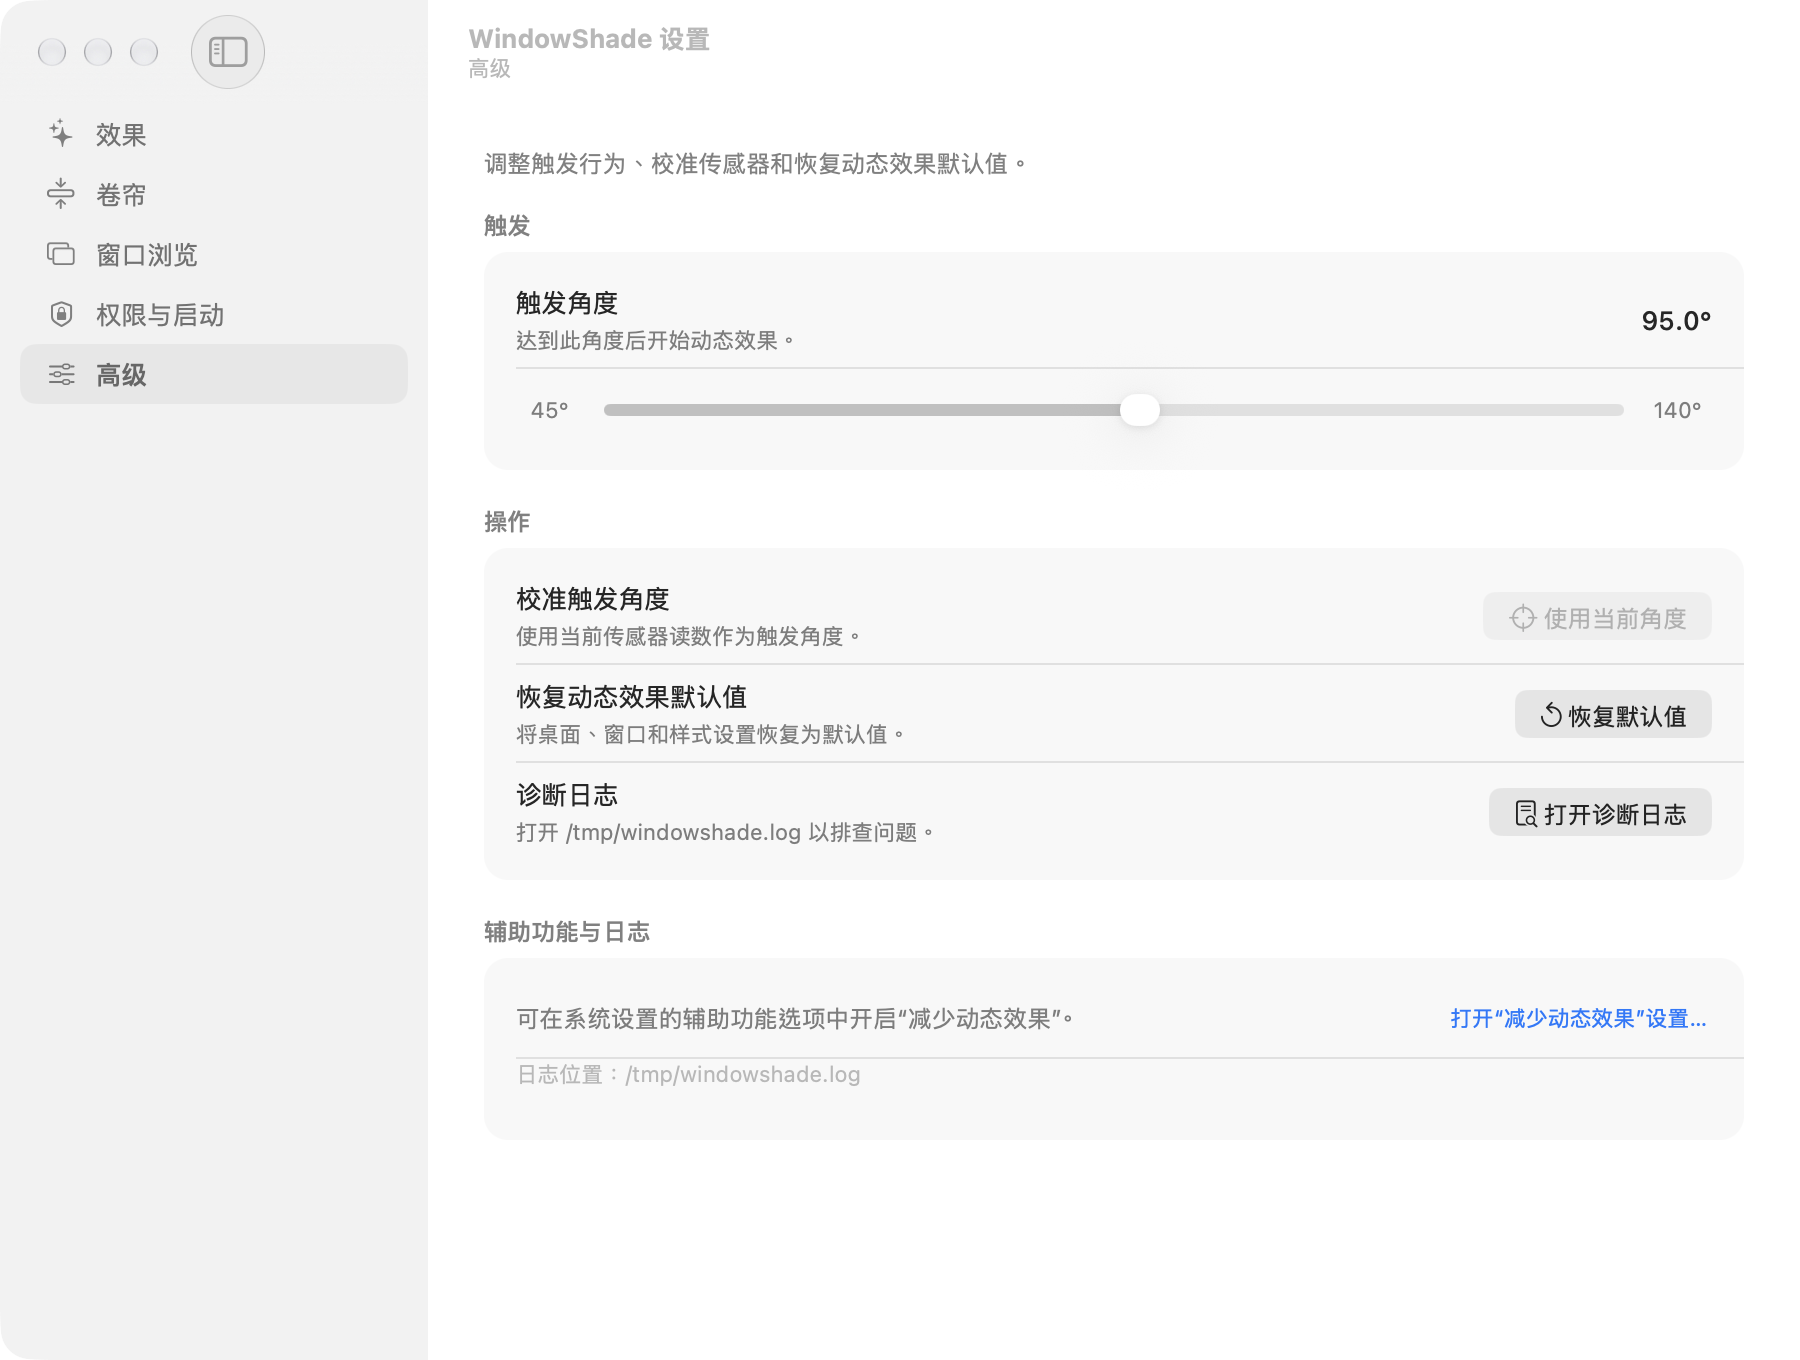
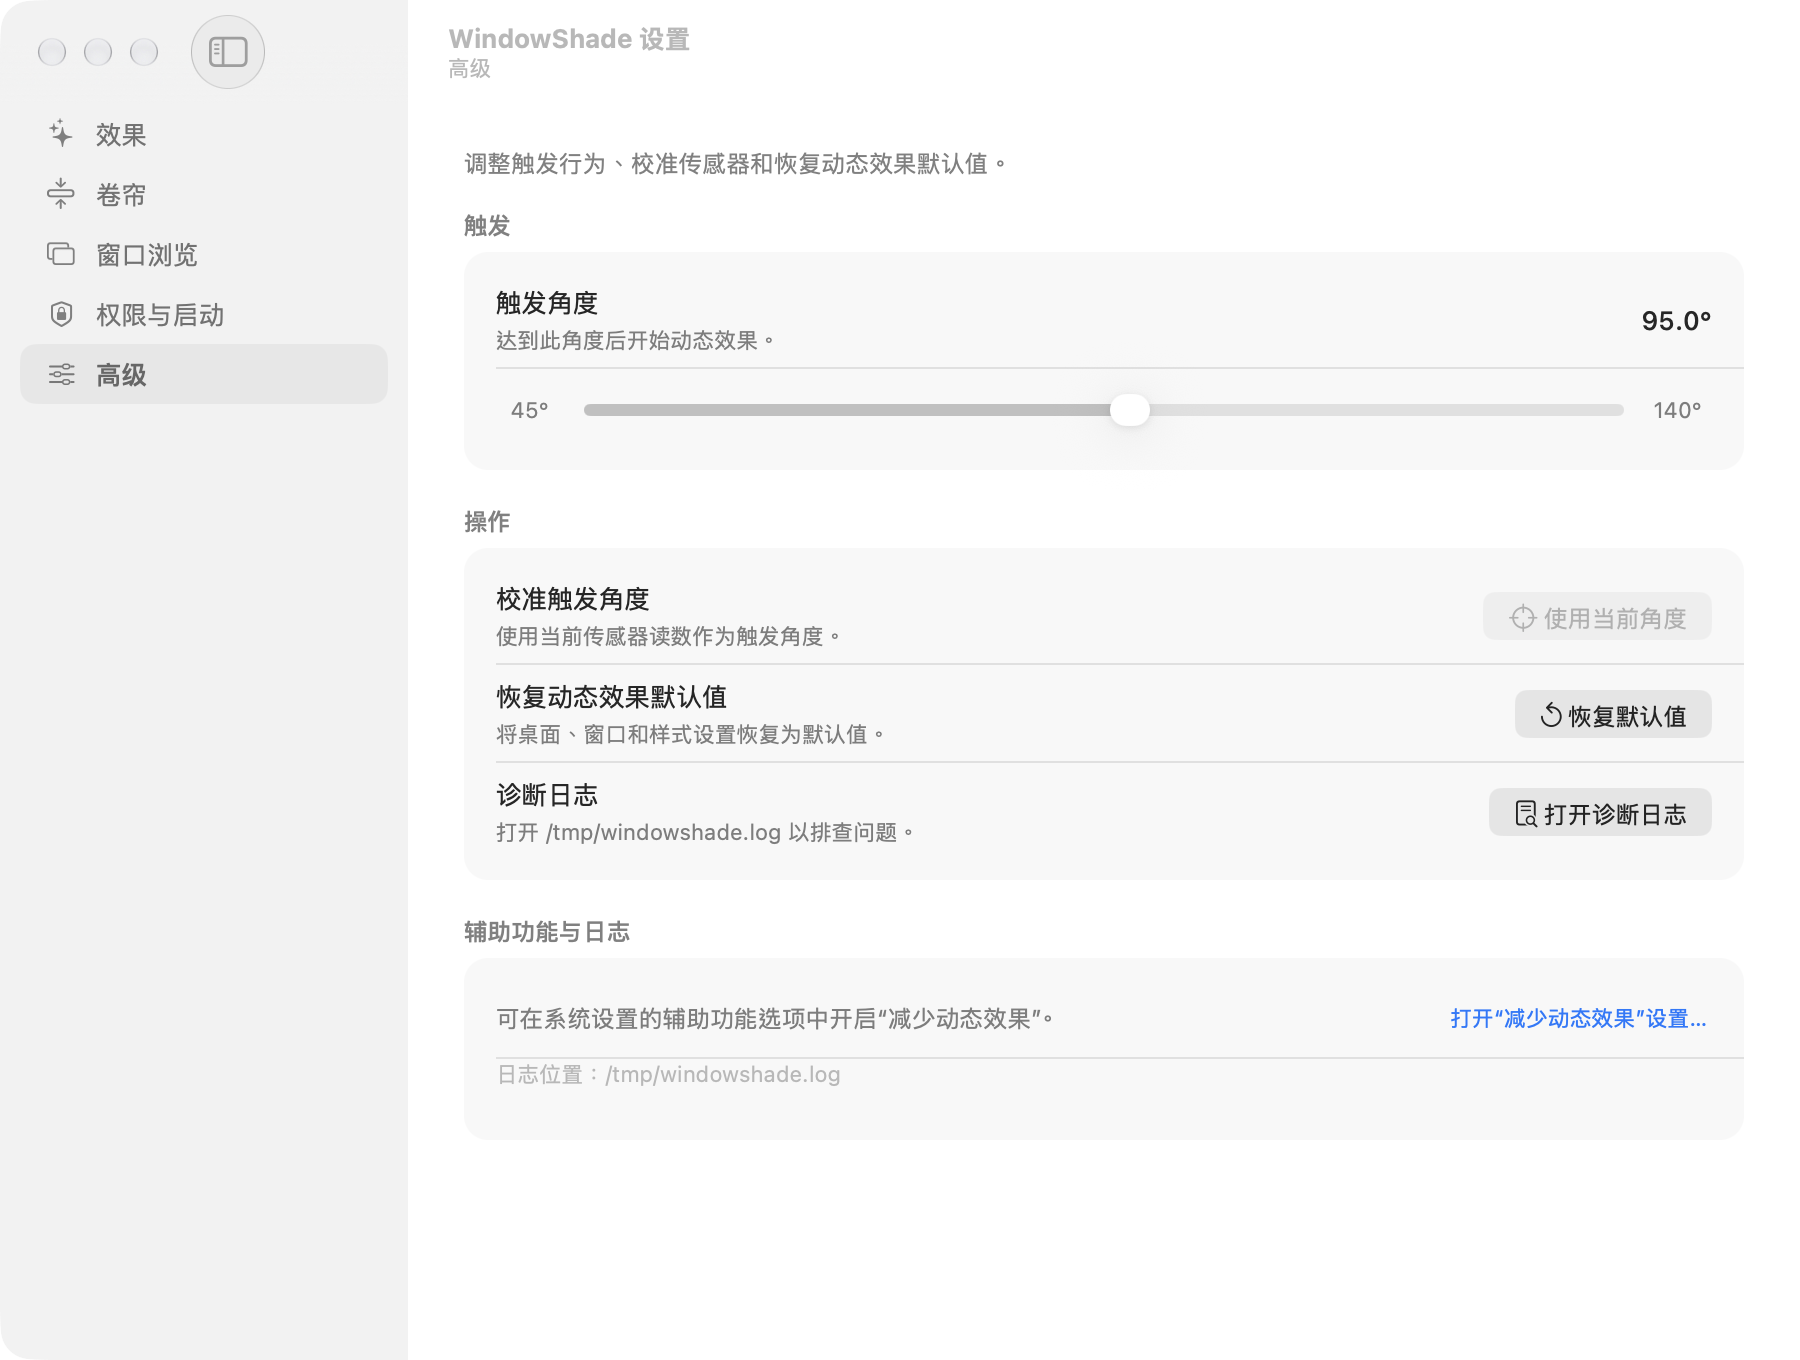
Centre the settings content column, so hiding the sidebar stops leaving half a window blank
The user reported a large blank area "when switching the sidebar" and the two
screenshots turned out to be the same window in both sidebar states: left
region is the sidebar (237 background, 215 selection) in one, and the content
cards (248) in the other. With the sidebar hidden the detail pane becomes the
whole ~1115 pt window, but the 640 pt content column stayed pinned to its
leading edge — measured 447 pt of blank space down the right side (187 pt with
the sidebar shown).

Apple's own grouped form (SwiftUI .formStyle(.grouped), rendered on this
machine) caps its column at 703.5 pt and centres it: 75 pt a side in an 854 pt
container, 248 pt a side in a 1200 pt one. So select(section:) now pins
centreX to the page host, keeps >=28 pt on both sides and still caps the width
at 640 (the == 640 constraint drops to priority 510 so a narrow window shrinks
the column instead of breaking the margins).

Measured on the production window shots: 900 x 680 goes from 28/20 pt to
28.0/28.5 pt, 1115 x 680 from 28/187 to 130.5/131.0, and a hidden sidebar
centres the same column in the full-width pane.

Guarded so it cannot regress silently: contentColumnOffsetForDiagnostics
reports the current page's offset from the pane centre and --settings-shots
prints it on every render (0.0 pt PASS at both widths, all five pages), and
WINDOWSHADE_SETTINGS_SHOTS_SIZE renders the batch at another window size,
because a 900 pt window never showed the defect.
[…]

diff --git a/prototype/Effects/SettingsShotProbe.swift b/prototype/Effects/SettingsShotProbe.swift
@@ -21,12 +21,14 @@ final class SettingsShotProbe {
     func run(completion: @escaping () -> Void) {
         try? FileManager.default.createDirectory(at: outputDirectory,
                                                 withIntermediateDirectories: true)
+        let shotSize = Self.requestedShotSize()
         let appearances: [(String, NSAppearance.Name)] = [("light", .aqua), ("dark", .darkAqua)]
         var manifest = """
         设置窗口页面截图（生产设置窗口整窗截图，含系统侧栏材质；拿不到整窗结果时才退回
         cacheDisplay 离屏渲染，那种情况下侧栏区域是透明的）
         macOS: \(ProcessInfo.processInfo.operatingSystemVersionString)
         scale: \(Int(NSScreen.main?.backingScaleFactor ?? 1))x
+        截图尺寸: \(Int(shotSize.width))x\(Int(shotSize.height))
 
         """
         for (appearanceName, appearance) in appearances {
@@ -35,10 +37,15 @@ final class SettingsShotProbe {
                 owner.showDuoSettings(section: section)
                 RunLoop.current.run(until: Date().addingTimeInterval(0.45))
                 guard let window = owner.duoController.settingsWindow?.window else { continue }
-                window.setContentSize(NSSize(width: 900, height: 680))
+                window.setContentSize(shotSize)
                 window.setFrameOrigin(NSPoint(x: window.frame.origin.x,
                                               y: window.frame.origin.y))
                 RunLoop.current.run(until: Date().addingTimeInterval(0.25))
+                if appearanceName == "light", let offset = owner.duoController.settingsWindow?
+                    .contentColumnOffsetForDiagnostics {
+                    let verdict = abs(offset) < 0.5 ? "PASS" : "FAIL"
+                    print("settings-shots: 内容列居中偏移 \(String(format: "%.1f", offset))pt \(verdict)")
+                }
                 let theme = window.contentView?.superview ?? window.contentView
                 guard let theme,
                       let image = capture(window: window) ?? render(view: theme) else { continue }
@@ -55,6 +62,21 @@ final class SettingsShotProbe {
                             atomically: true, encoding: .utf8)
         owner.duoController.settingsWindow?.close()
         completion()
+    }
+
+    /// 截图尺寸默认 900 × 680（窗口默认尺寸）。设置 `WINDOWSHADE_SETTINGS_SHOTS_SIZE=1115x680`
+    /// 可以把同一批页面渲染成别的窗口尺寸——窗口可自由缩放，内容列的左右留白是否对称、
+    /// 收起侧栏后的宽详情区是否还留大片空白，都要在非默认宽度上看过才算数。
+    private static func requestedShotSize() -> NSSize {
+        let fallback = NSSize(width: 900, height: 680)
+        guard let raw = ProcessInfo.processInfo.environment["WINDOWSHADE_SETTINGS_SHOTS_SIZE"] else {
+            return fallback
+        }
+        let parts = raw.lowercased().split(separator: "x")
+        guard parts.count == 2,
+              let width = Double(parts[0]), let height = Double(parts[1]),
+              width >= 640, height >= 400 else { return fallback }
+        return NSSize(width: width, height: height)
     }
 
     private func render(view: NSView) -> CGImage? {

diff --git a/prototype/Effects/DuoSettingsWindow.swift b/prototype/Effects/DuoSettingsWindow.swift
@@ -326,10 +326,15 @@ final class DuoSettingsWindow: NSWindowController, NSWindowDelegate, NSTableView
     page.translatesAutoresizingMaskIntoConstraints = false
     pageHost.addSubview(page)
     // 内容列固定 640pt 上限：窗口再宽也不让一行文字横跨到远端的开关。
-    let preferredWidth = page.trailingAnchor.constraint(equalTo: pageHost.trailingAnchor, constant: -28)
+    // 但在详情区里**居中**，不贴左边——收起侧栏（详情区变成整窗宽）或把窗口拉宽之后，
+    // 多出来的宽度应当均分到两侧。Apple 自己的分组表单就是这么摆的：本机实测
+    // 854pt 容器左右各 75pt、1200pt 容器左右各 248pt，内容列本身恒为 703.5pt。
+    // 贴左边会让收起侧栏后的窗口右半边整片空着（640pt 内容 + 447pt 空白）。
+    let preferredWidth = page.widthAnchor.constraint(equalToConstant: settingsContentWidth)
     preferredWidth.priority = .dragThatCannotResizeWindow
     activePageConstraints = [
-      page.leadingAnchor.constraint(equalTo: pageHost.leadingAnchor, constant: 28),
+      page.centerXAnchor.constraint(equalTo: pageHost.centerXAnchor),
+      page.leadingAnchor.constraint(greaterThanOrEqualTo: pageHost.leadingAnchor, constant: 28),
       page.trailingAnchor.constraint(lessThanOrEqualTo: pageHost.trailingAnchor, constant: -28),
       preferredWidth,
       page.widthAnchor.constraint(lessThanOrEqualToConstant: settingsContentWidth),
@@ -379,6 +384,15 @@ final class DuoSettingsWindow: NSWindowController, NSWindowDelegate, NSTableView
     pageScroll.contentView.scroll(to: .zero)
     pageScroll.contentView.bounds.origin = .zero
     pageScroll.reflectScrolledClipView(pageScroll.contentView)
+  }
+
+  /// 诊断：当前分页的内容列中心相对详情区中心的偏移（0 表示居中）。
+  /// 收起侧栏或把窗口拉宽之后，内容列必须仍在详情区里居中——贴左会在右半边留下
+  /// 一大片空白（截图探针每次都会打这一行，见 `SettingsShotProbe`）。
+  var contentColumnOffsetForDiagnostics: CGFloat? {
+    guard let pageHost, let page = pageHost.subviews.first else { return nil }
+    pageHost.layoutSubtreeIfNeeded()
+    return page.frame.midX - pageHost.bounds.midX
   }
 
   func refreshSettings() {

diff --git a/docs/releases/v1.0.14.md b/docs/releases/v1.0.14.md
@@ -77,6 +77,7 @@
 - 每张卡片、每一行和详情栏各叠了一层 `.contentBackground` 材质视图，把玻璃盖成了白块；现在这些表面只用系统填充色。
 - 截图服务的完成回调在锁内执行、计数在锁外统计；控制器释放后目标解析仍会回调；旧实时预览租约失败会给新选中的窗口报错；排布预览计时器与令牌脱钩。四项都已修好并有断言。
 - 截图探针按 `NSScreen.main` 算屏幕坐标，多显示器时错位；改用原点在 (0,0) 的主显示器。
+- 设置页内容列贴着详情区左边，收起侧栏（详情区变成整窗宽）后右半边整片空白：窗口 1115 pt 宽时内容列只占 640 pt、右侧留白 447 pt。现在按 Apple 分组表单的摆法在详情区居中（900 × 680 窗口左右各 28 pt、1115 × 680 各 131 pt），截图探针每次渲染都会打印居中自检。
 
 ## English
 
@@ -119,6 +120,7 @@
 - Every card, row and the detail pane carried its own `.contentBackground` material view, which flattened the glass into a white block; those surfaces now use system fills only.
 - The thumbnail service ran its completion callbacks inside its lock and counted outside it, a released controller still resolved targets, a failed live-preview lease reported an error against the newly selected window, and the arrangement preview's timer outlived its token.
 - The shots probe computed screen coordinates from `NSScreen.main`, which is wrong with several displays; it now uses the display whose origin is (0, 0).
+- The settings pages pinned their 640 pt content column to the leading edge of the detail pane, so hiding the sidebar (which widens the pane to the whole window) left 447 pt of blank space down the right side of a 1115 pt window. The column is now centred the way Apple's grouped forms are (28 pt each side at 900 × 680, 131 pt at 1115 × 680), and the shots probe prints a centring self-check on every render.
 
 ### Performance
 

diff --git a/docs/design-v1.md b/docs/design-v1.md
@@ -5,7 +5,9 @@
 ## 实现
 
 - 设置采用 `NSSplitViewController`、系统 source list 与 unified 工具栏。分节名显示在窗口副标题，侧边栏支持键盘导航和折叠，列表的选中、失焦、辅助功能交给 AppKit。
-- 默认窗口 900 × 680，最小 820 × 580；侧边栏初始 214，内容左对齐、上限 640，页边距左右 28、上下 22。
+- 默认窗口 900 × 680，最小 820 × 580；侧边栏初始 214；内容列上限 640、在详情区**居中**（左右至少 28、上下 22）。
+  居中而不是贴左边：收起侧栏后详情区变成整窗宽，贴左边会在右半边留下近半扇窗的空白。Apple 自己的分组表单
+  也是这个摆法（本机实测：854 pt 容器左右各 75 pt、1200 pt 容器左右各 248 pt，内容列恒为 703.5 pt）。
 - 四页和引导权限区复用 `NSBox.custom` 分组盒：系统实色、圆角 12（`SystemCornerRadius.card`）、无描边无阴影。分组标题纯文字，分隔线左端缩进 16。
 - 传感器状态并入效果页说明，数字采用等宽数字字体。暂停和录屏设置按钮归入相应分组；实验性选项放在末尾。
 - 静态预览改为四条冷白横带和底部卷轴；进度滑杆独占图形下方一行。静态图不启动持续渲染时钟。

diff --git a/DEVELOPMENT.md b/DEVELOPMENT.md
@@ -152,7 +152,10 @@ cd prototype
   `./build.sh --stage` 后运行
   `.build/duo-validation/WindowShade.app/Contents/MacOS/WindowShade --settings-shots .build/settings-shots`
   输出每页的浅色/深色 PNG 与 `manifest.txt`；侧栏由系统材质绘制、效果页的 Metal 预览
-  画布也不会出现在离屏图里。
+  画布也不会出现在离屏图里。窗口可自由缩放，`WINDOWSHADE_SETTINGS_SHOTS_SIZE=1115x680`
+  可以把同一批页面渲染成别的尺寸（内容列左右留白是否对称只能在非默认宽度上看出来）。
+  每次渲染都会打印一行内容列居中自检（`内容列居中偏移 0.0pt PASS`）：收起侧栏后详情区变成
+  整窗宽，内容列必须仍然居中，贴左会在右半边留下大片空白。
 - 设置页外观自适应回归：`bash scripts/check-settings-appearance.sh`
   （逐页比较浅色/深色平均亮度，防止静态颜色被冻结的缺陷复发）。
 - 系统外观（材质 / 对比度边线 / 薄纱 / 动画 / 可访问性文案）集中在
